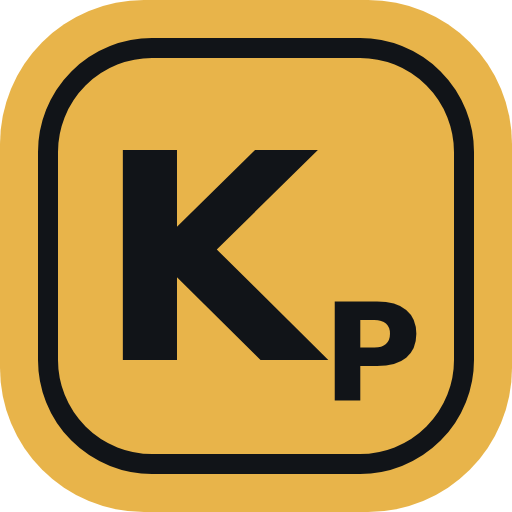
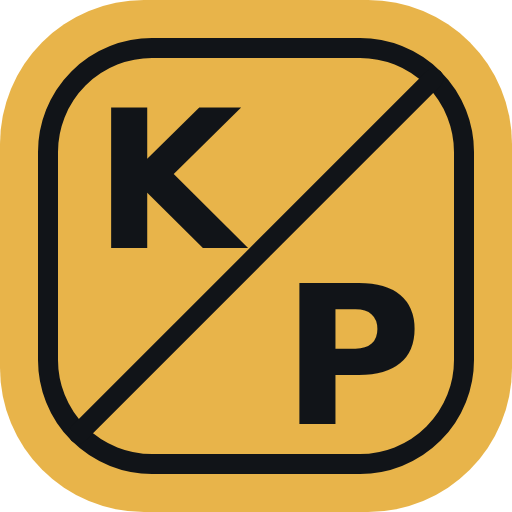
App mark: K and P split by a diagonal inside the KCGM squircle
Claude-Session: https://claude.ai/code/session_01CxJEc1Hy1WUCaqvM2jGHtb

Changed region(s): [[0.1562, 0.1562, 0.8438, 0.8438]]

diff --git a/Photo-Map.html b/Photo-Map.html
@@ -39,7 +39,7 @@
   header{height:var(--header-h);display:flex;align-items:center;gap:14px;padding:0 16px;
     background:var(--panel);border-bottom:1px solid var(--line);position:relative;z-index:1200;}
   .brand{display:flex;align-items:center;gap:9px;flex:0 0 auto;}
-  .brand .pm-mark{flex-shrink:0;display:block;}   /* the KCGM app mark, Kₚ for PhotoMap */
+  .brand .pm-mark{flex-shrink:0;display:block;}   /* the KCGM app mark, split K / P for PhotoMap */
   .brand h1{font-family:var(--font);font-weight:700;font-size:17px;margin:0;color:var(--ink);}
   .brand h1 span{color:var(--accent);}
   .menubar{display:flex;align-items:center;gap:2px;margin-left:10px;height:100%;}
@@ -728,7 +728,7 @@
 <body>
 
 <header>
-  <div class="brand"><svg class="pm-mark" viewBox="0 0 64 64" width="30" height="30" aria-hidden="true"><rect width="64" height="64" rx="18" fill="#e8b44a"/><rect x="6" y="6" width="52" height="52" rx="13" fill="none" stroke="#111418" stroke-width="2.5"/><text x="26" y="45" text-anchor="middle" font-family="system-ui,Segoe UI,Arial,sans-serif" font-weight="800" font-size="36" fill="#111418">K</text><text x="46.5" y="50" text-anchor="middle" font-family="system-ui,Segoe UI,Arial,sans-serif" font-weight="800" font-size="17" fill="#111418">P</text></svg><div class="brand-t"><h1>Photo<span>Map</span></h1><span class="savestat" id="saveStatus" title="When the project file was last saved"></span></div><span class="build" id="buildStamp" style="display:none" title="When this copy of the app was published — if it's older than the latest change, you're running a stale copy"></span></div>
+  <div class="brand"><svg class="pm-mark" viewBox="0 0 64 64" width="30" height="30" aria-hidden="true"><rect width="64" height="64" rx="18" fill="#e8b44a"/><rect x="6" y="6" width="52" height="52" rx="13" fill="none" stroke="#111418" stroke-width="2.5"/><path d="M9.8 54.2 54.2 9.8" stroke="#111418" stroke-width="2.5" stroke-linecap="round"/><text x="21" y="31" text-anchor="middle" font-family="system-ui,Segoe UI,Arial,sans-serif" font-weight="800" font-size="24" fill="#111418">K</text><text x="44" y="53" text-anchor="middle" font-family="system-ui,Segoe UI,Arial,sans-serif" font-weight="800" font-size="24" fill="#111418">P</text></svg><div class="brand-t"><h1>Photo<span>Map</span></h1><span class="savestat" id="saveStatus" title="When the project file was last saved"></span></div><span class="build" id="buildStamp" style="display:none" title="When this copy of the app was published — if it's older than the latest change, you're running a stale copy"></span></div>
   <nav class="menubar" id="menubar">
     <div class="mb"><button class="mb-btn" type="button">File</button><div class="mb-drop">
       <button class="mi" id="btnOpenJson" type="button" title="Open a saved project file (.json). The current project is closed first — you'll be asked.">Open project…</button>
@@ -4395,7 +4395,7 @@ function parseShareHash(){
 /* ================= MOBILE FIELD UI =================
    Phone-sized touch screens get an actions-first UI at the SAME link. It reads the latest
    pack.json from the private data repo (token pasted once) and pushes ticks/notes back. */
-const PM_MARK=w=>'<svg class="pm-mark" viewBox="0 0 64 64" width="'+w+'" height="'+w+'" aria-hidden="true"><rect width="64" height="64" rx="18" fill="#e8b44a"/><rect x="6" y="6" width="52" height="52" rx="13" fill="none" stroke="#111418" stroke-width="2.5"/><text x="26" y="45" text-anchor="middle" font-family="system-ui,Segoe UI,Arial,sans-serif" font-weight="800" font-size="36" fill="#111418">K</text><text x="46.5" y="50" text-anchor="middle" font-family="system-ui,Segoe UI,Arial,sans-serif" font-weight="800" font-size="17" fill="#111418">P</text></svg>';
+const PM_MARK=w=>'<svg class="pm-mark" viewBox="0 0 64 64" width="'+w+'" height="'+w+'" aria-hidden="true"><rect width="64" height="64" rx="18" fill="#e8b44a"/><rect x="6" y="6" width="52" height="52" rx="13" fill="none" stroke="#111418" stroke-width="2.5"/><path d="M9.8 54.2 54.2 9.8" stroke="#111418" stroke-width="2.5" stroke-linecap="round"/><text x="21" y="31" text-anchor="middle" font-family="system-ui,Segoe UI,Arial,sans-serif" font-weight="800" font-size="24" fill="#111418">K</text><text x="44" y="53" text-anchor="middle" font-family="system-ui,Segoe UI,Arial,sans-serif" font-weight="800" font-size="24" fill="#111418">P</text></svg>';
 function isMobile(){ try{ return matchMedia("(pointer:coarse)").matches && Math.min(screen.width,screen.height)<600 && !localStorage.getItem("pmForceDesktop"); }catch(e){ return false; } }
 let mPack=null, mGeo=null, mMiniMap=null, mInsetMap=null, mInsetMapL=null, mInsetCur=null, mHomeMap=null, mHomeBB=null;
 let _mpRaw=null,_mpObj=null;
